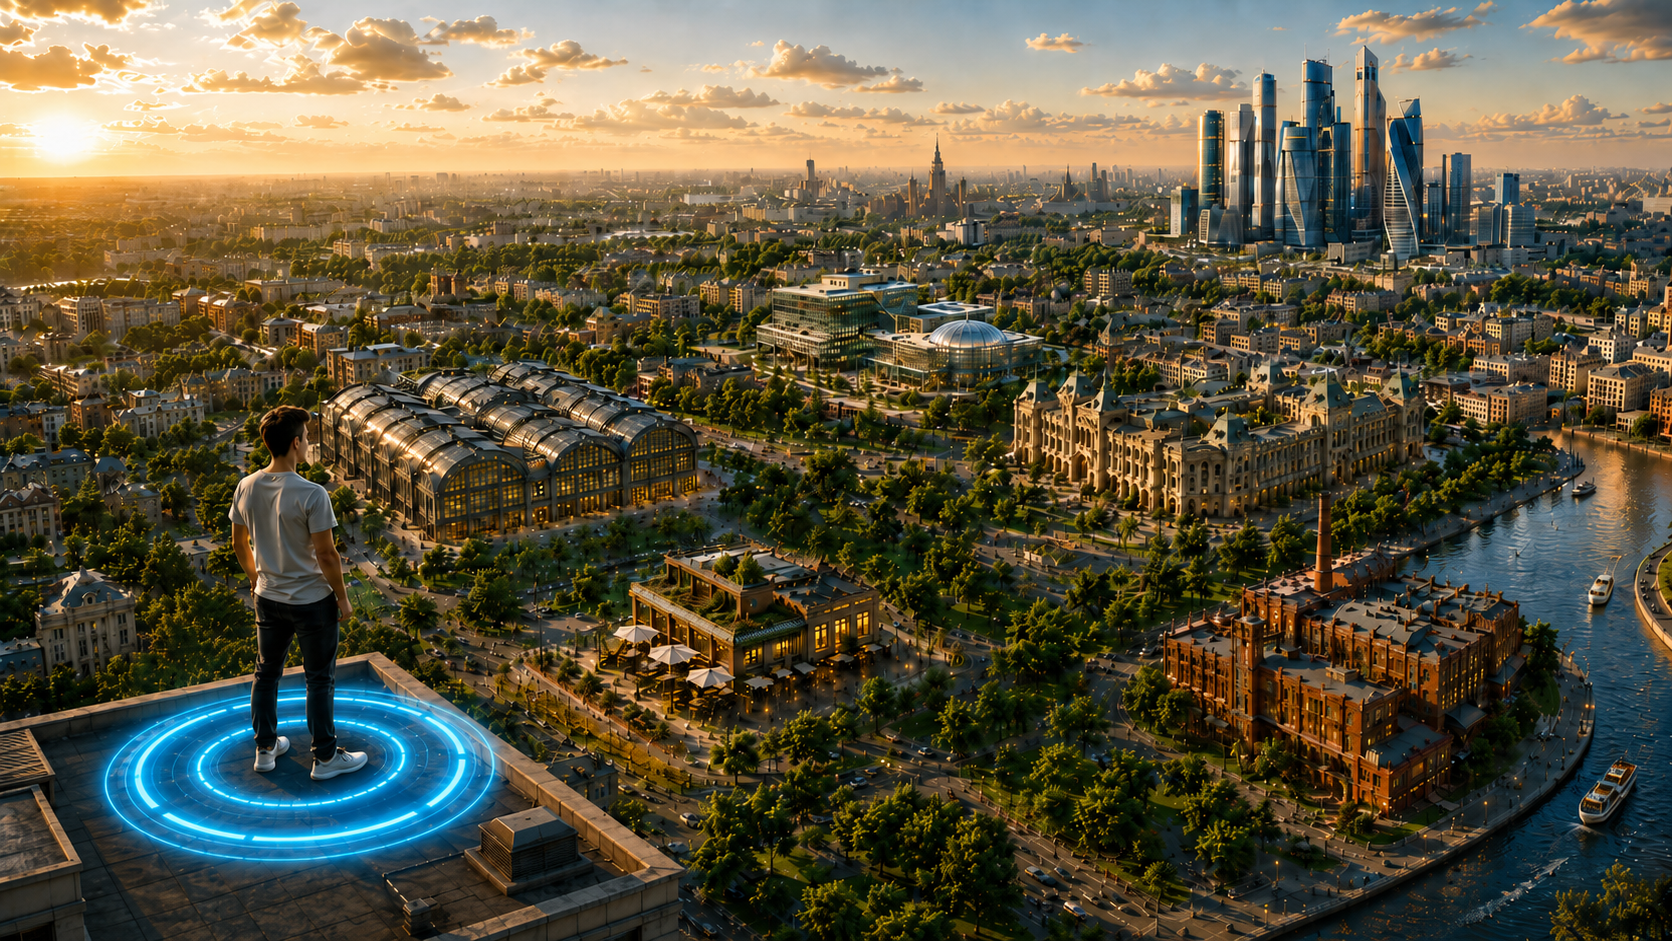
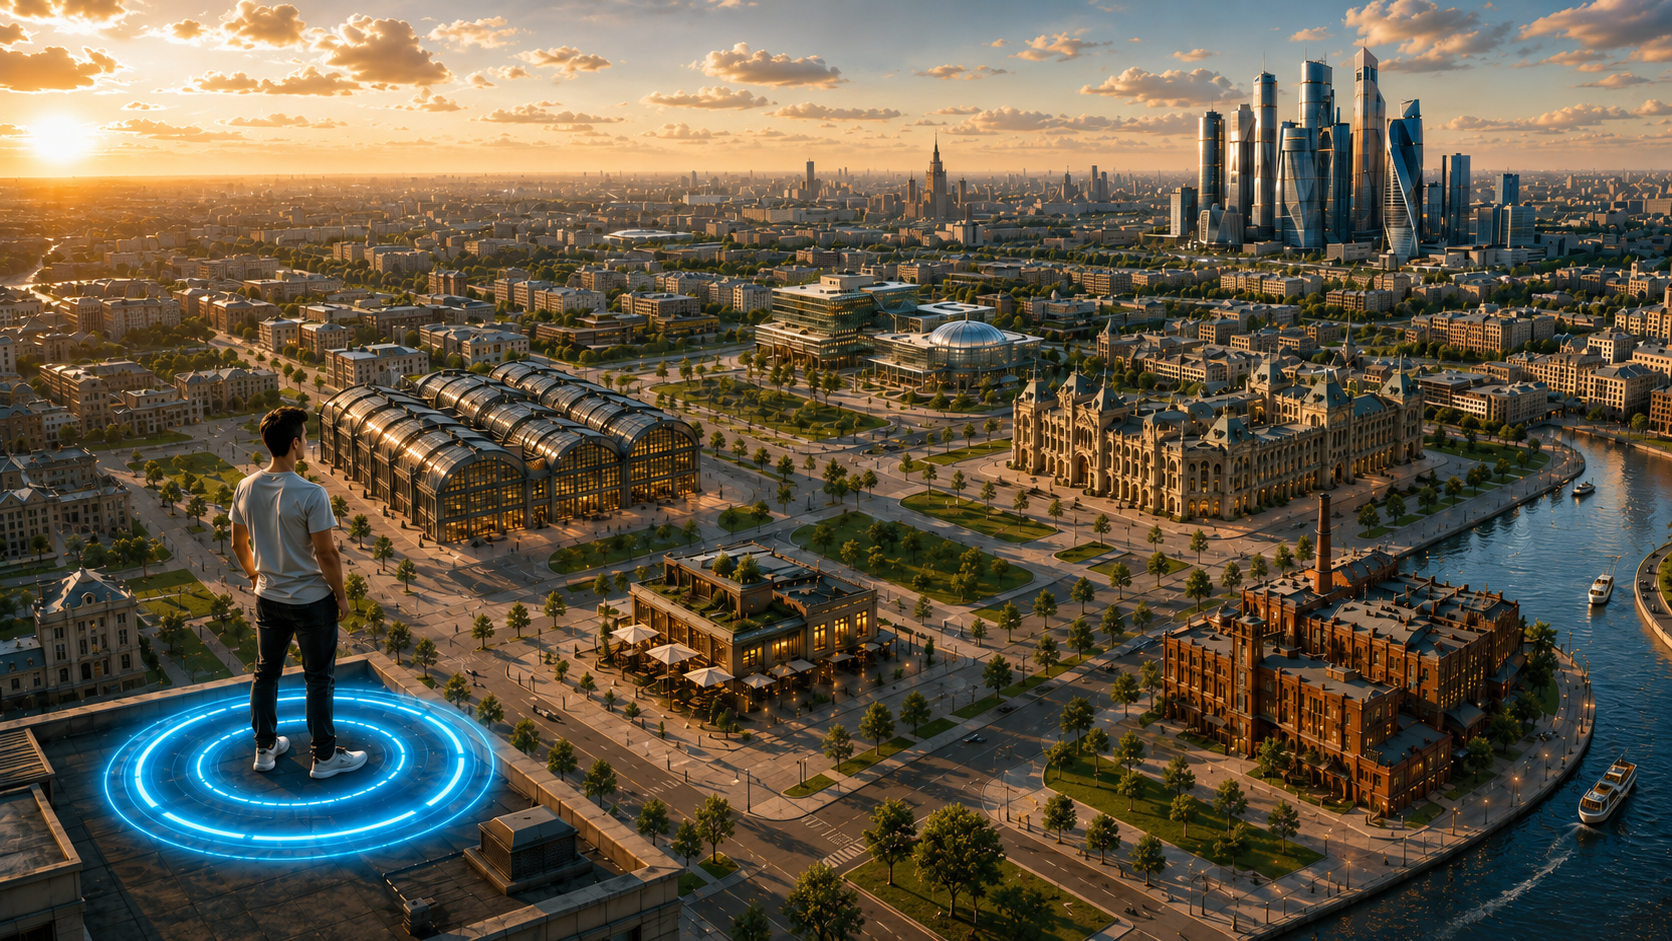
feat: прогресс заставки привязан к реальной загрузке фон-картинки
- во всех 5 стилях: бар стоит на 90% пока фон не загрузился (Image.onload)
- 100%/закрытие заставки — только когда картинка готова + мин. показ 1.2с
- предохранитель MAX (alisa 25с — фон 38MB, остальные 12с), onerror тоже = готово
- механика прописана в prompts/generate_styled_presentation.md (2.9)

diff --git a/styles/Стиль - Летняя Дневная Москва/index.html b/styles/Стиль - Летняя Дневная Москва/index.html
@@ -1309,20 +1309,33 @@ document.querySelectorAll('.panel-toggle').forEach(b=>b.addEventListener('click'
   const p=b.closest('.panel'); if(p) p.classList.toggle('collapsed');
 }));
 
-// ---- заставка-загрузка ----
+// ---- заставка-загрузка: прогресс привязан к реальной загрузке фон-картинки ----
 (function(){
   const intro=document.getElementById('intro'); if(!intro) return;
   const fill=document.getElementById('introFill'), pct=document.getElementById('introPct');
-  let p=0;
+  // картинки, которые должны прогрузиться ДО показа титула (тот же URL, что у фона титула — греем кэш)
+  const SRCS=['img/slide0_day.png?v=5'];
+  let loaded=0; const total=SRCS.length;
+  SRCS.forEach(src=>{
+    const im=new Image();
+    const mark=()=>{ loaded++; };
+    im.onload=mark; im.onerror=mark;        // ошибку тоже считаем «готово», чтобы не висло
+    im.src=src;
+    if(im.complete) mark();                 // уже в кэше
+  });
+  const t0=Date.now(), MIN=1200, MAX=12000; // мин. показ заставки и предохранитель
+  let p=0, finished=false;
   const timer=setInterval(()=>{
-    p+=Math.random()*2.2+1.9;                  // загрузка ~2 секунды
-    if(p>=100){ p=100; clearInterval(timer); finish(); }
+    const elapsed=Date.now()-t0, ready=loaded>=total;
+    const cap=ready?100:90;                 // пока картинка не загрузилась — упираемся в 90%
+    p=Math.min(cap, p+Math.random()*2.2+1.9);
+    if((ready && elapsed>=MIN) || elapsed>=MAX) p=100;   // 100% когда картинка готова (или сработал предохранитель)
     fill.style.width=p+'%'; pct.textContent=Math.floor(p)+'%';
+    if(p>=100 && !finished){ finished=true; clearInterval(timer); finish(); }
   },60);
   function finish(){
     setTimeout(()=>intro.classList.add('loaded'),300);  // прячем скайлайн/заголовок/бар
     setTimeout(()=>intro.classList.add('done'),1500);    // гасим тёмный фон — открывается титул, логотип остаётся
-    // ачивка титула теперь по ТРИГГЕРУ (навёл на «?» → допечатался текст), не по таймеру
   }
 })();
 

diff --git a/styles/alisa-100/index.html b/styles/alisa-100/index.html
@@ -482,11 +482,18 @@ stage.classList.add('booting');                       // сцена скрыта
   const intro=document.getElementById('intro'),
         fill=document.getElementById('introFill'),
         pct=document.getElementById('introPct'), fx=document.getElementById('fx');
-  let p=0;
+  // прогресс привязан к реальной загрузке фона (тяжёлый ~38MB) — заставка ждёт картинку
+  const SRC='ultra_detailed_wide_panoramic_sci_fi_futuristic_c_1_8k.png';
+  let imgReady=false;
+  (function(){ const im=new Image(); const m=()=>{imgReady=true;}; im.onload=m; im.onerror=m; im.src=SRC; if(im.complete) m(); })();
+  const t0=Date.now(), MIN=1200, MAX=25000;            // мин. показ и предохранитель
+  let p=0, fin=false;
   const t=setInterval(()=>{
-    p+=Math.random()*2.4+2;                            // ~2 секунды загрузки
-    if(p>=100){ p=100; clearInterval(t); finish(); }
+    const el=Date.now()-t0, cap=imgReady?100:90;       // пока фон не загрузился — упираемся в 90%
+    p=Math.min(cap, p+Math.random()*2.4+2);
+    if((imgReady && el>=MIN) || el>=MAX) p=100;
     fill.style.width=p+'%'; pct.textContent=Math.floor(p)+'%';
+    if(p>=100 && !fin){ fin=true; clearInterval(t); finish(); }
   },55);
   function finish(){
     setTimeout(()=>intro.classList.add('loaded'),250);  // прячем скайлайн/заголовок/бар — логотип остаётся

diff --git a/styles/garri-potter/index.html b/styles/garri-potter/index.html
@@ -454,8 +454,18 @@ stage.classList.add('booting');
 (function(){
   const intro=document.getElementById('intro'), fill=document.getElementById('introFill'),
         pct=document.getElementById('introPct'), fx=document.getElementById('fx');
-  let p=0;
-  const t=setInterval(()=>{ p+=Math.random()*2.4+2; if(p>=100){p=100;clearInterval(t);finish();} fill.style.width=p+'%'; pct.textContent=Math.floor(p)+'%'; },55);
+  // прогресс привязан к реальной загрузке фона — заставка ждёт картинку
+  let imgReady=false;
+  (function(){ const im=new Image(); const m=()=>{imgReady=true;}; im.onload=m; im.onerror=m; im.src='bg.png'; if(im.complete) m(); })();
+  const t0=Date.now(), MIN=1200, MAX=12000;
+  let p=0, fin=false;
+  const t=setInterval(()=>{
+    const el=Date.now()-t0, cap=imgReady?100:90;
+    p=Math.min(cap, p+Math.random()*2.4+2);
+    if((imgReady && el>=MIN) || el>=MAX) p=100;
+    fill.style.width=p+'%'; pct.textContent=Math.floor(p)+'%';
+    if(p>=100 && !fin){ fin=true; clearInterval(t); finish(); }
+  },55);
   function finish(){
     setTimeout(()=>intro.classList.add('loaded'),250);  // прячем скайлайн/заголовок/бар — логотип остаётся
     setTimeout(()=>{ stage.classList.remove('booting'); fx.classList.add('run'); setTimeout(()=>fx.classList.remove('run'),500); },600);

diff --git a/styles/fiksiki/index.html b/styles/fiksiki/index.html
@@ -396,8 +396,18 @@ stage.classList.add('booting');
 (function(){
   const intro=document.getElementById('intro'), fill=document.getElementById('introFill'),
         pct=document.getElementById('introPct'), fx=document.getElementById('fx');
-  let p=0;
-  const t=setInterval(()=>{ p+=Math.random()*2.4+2; if(p>=100){p=100;clearInterval(t);finish();} fill.style.width=p+'%'; pct.textContent=Math.floor(p)+'%'; },55);
+  // прогресс привязан к реальной загрузке фона — заставка ждёт картинку
+  let imgReady=false;
+  (function(){ const im=new Image(); const m=()=>{imgReady=true;}; im.onload=m; im.onerror=m; im.src='bg.png'; if(im.complete) m(); })();
+  const t0=Date.now(), MIN=1200, MAX=12000;
+  let p=0, fin=false;
+  const t=setInterval(()=>{
+    const el=Date.now()-t0, cap=imgReady?100:90;
+    p=Math.min(cap, p+Math.random()*2.4+2);
+    if((imgReady && el>=MIN) || el>=MAX) p=100;
+    fill.style.width=p+'%'; pct.textContent=Math.floor(p)+'%';
+    if(p>=100 && !fin){ fin=true; clearInterval(t); finish(); }
+  },55);
   function finish(){
     intro.classList.add('loaded');                       // прячем заголовок/бар, логотип остаётся
     setTimeout(()=>{ stage.classList.remove('booting'); fx.classList.add('run'); setTimeout(()=>fx.classList.remove('run'),500); },300);

diff --git a/styles/ostrov-sokrovish/index.html b/styles/ostrov-sokrovish/index.html
@@ -413,8 +413,18 @@ stage.classList.add('booting');
 (function(){
   const intro=document.getElementById('intro'), fill=document.getElementById('introFill'),
         pct=document.getElementById('introPct'), fx=document.getElementById('fx');
-  let p=0;
-  const t=setInterval(()=>{ p+=Math.random()*2.4+2; if(p>=100){p=100;clearInterval(t);finish();} fill.style.width=p+'%'; pct.textContent=Math.floor(p)+'%'; },55);
+  // прогресс привязан к реальной загрузке фона — заставка ждёт картинку
+  let imgReady=false;
+  (function(){ const im=new Image(); const m=()=>{imgReady=true;}; im.onload=m; im.onerror=m; im.src='bg.png'; if(im.complete) m(); })();
+  const t0=Date.now(), MIN=1200, MAX=12000;
+  let p=0, fin=false;
+  const t=setInterval(()=>{
+    const el=Date.now()-t0, cap=imgReady?100:90;
+    p=Math.min(cap, p+Math.random()*2.4+2);
+    if((imgReady && el>=MIN) || el>=MAX) p=100;
+    fill.style.width=p+'%'; pct.textContent=Math.floor(p)+'%';
+    if(p>=100 && !fin){ fin=true; clearInterval(t); finish(); }
+  },55);
   function finish(){
     intro.classList.add('loaded');
     setTimeout(()=>{ stage.classList.remove('booting'); fx.classList.add('run'); setTimeout(()=>fx.classList.remove('run'),500); },300);

diff --git a/prompts/generate_styled_presentation.md b/prompts/generate_styled_presentation.md
@@ -206,6 +206,21 @@
   #intro.loaded .intro-bar,#intro.loaded .intro-pct{opacity:0;transition:opacity .5s ease}
   ```
 - В JS по достижении 100%: сначала `intro.classList.add('loaded')`, затем (позже) `add('done')`.
+- **Прогресс привязан к реальной загрузке фон-картинки, а не к фикс-таймеру.** Иначе на тяжёлом
+  фоне заставка гаснет раньше, чем картинка пришла → пустой/fallback титул. Схема: предзагрузи
+  фон через `new Image()` (тот же URL, что у `.intro-bg`/титула — греешь кэш), бар упирается в
+  90% пока `!imgReady`, до 100% доходит только когда `onload` (или `onerror`) + прошло мин. время
+  (~1.2с); предохранитель `MAX` (12с, для тяжёлых фонов больше) закрывает заставку, если картинка
+  так и не пришла:
+  ```js
+  let imgReady=false;
+  (function(){const im=new Image();const m=()=>{imgReady=true;};im.onload=m;im.onerror=m;im.src='bg.png';if(im.complete)m();})();
+  const t0=Date.now(),MIN=1200,MAX=12000; let p=0,fin=false;
+  const t=setInterval(()=>{const el=Date.now()-t0,cap=imgReady?100:90;
+    p=Math.min(cap,p+Math.random()*2.4+2); if((imgReady&&el>=MIN)||el>=MAX)p=100;
+    fill.style.width=p+'%';pct.textContent=Math.floor(p)+'%';
+    if(p>=100&&!fin){fin=true;clearInterval(t);finish();}},55);
+  ```
 - Логотип («Штаб») — общий файл (голубой неон). Если его цвет конфликтует с палитрой стиля,
   перекрась САМ логотип CSS-фильтром на `.intro-logo` (файл не меняем), напр. под золото:
   `filter:sepia(1) saturate(2.2) hue-rotate(2deg) brightness(1.05) drop-shadow(...)`. Иначе
